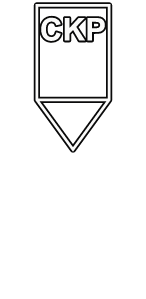
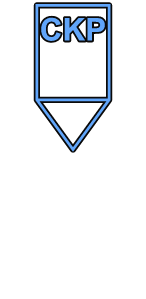
style: blue point symbols, slightly larger
Point symbols render in blue (blue-400) with the dark halo, and draw
at 0.68 scale (units stay 0.8).

Changed region(s): [[0.2192, 0.0, 0.7671, 0.5117]]

diff --git a/src/theme/tokens.ts b/src/theme/tokens.ts
@@ -15,6 +15,7 @@ export const palette = {
   'green-500': '#22c55e',
   'red-400': '#f87171',
   'red-500': '#ef4444',
+  'blue-400': '#60a5fa',
   'sky-300': '#7dd3fc',
   'sky-400': '#38bdf8',
   'yellow-300': '#fde047',
@@ -43,8 +44,8 @@ const dark = {
   self: 'sky-400',
   'map-label-bg': { color: 'neutral-950', alpha: 0.85 },
   'map-label-text': 'stone-50',
-  /** Control-measure point symbols (build-time only): white lines with a dark halo. */
-  'point-symbol': 'stone-50',
+  /** Control-measure point symbols (build-time only): blue lines with a dark halo. */
+  'point-symbol': 'blue-400',
   'point-symbol-halo': 'neutral-950',
 } as const satisfies Record<string, TokenValue>;
 

diff --git a/src/features/map/layers/styles.ts b/src/features/map/layers/styles.ts
@@ -15,7 +15,7 @@ export const MAP_LABEL_FONT = ['DIN Pro Medium', 'Arial Unicode MS Regular'];
 /** Scale for unit symbols (the generated PNGs are ~32 pt tall at 1). */
 export const MARKER_ICON_SIZE = 0.8;
 /** Scale for point (control-measure overlay) symbols: a little smaller than units. */
-export const POINT_ICON_SIZE = 0.6;
+export const POINT_ICON_SIZE = 0.68;
 /** Per-feature size from its `category` property (set by the selectors from itemCategory). */
 const ICON_SIZE_BY_CATEGORY: SymbolLayerStyle['iconSize'] = ['match', ['get', 'category'], 'point', POINT_ICON_SIZE, MARKER_ICON_SIZE];
 /** Chip padding around label text, [top, right, bottom, left] in pt. */

diff --git a/docs/superpowers/notes/2026-10-12-native-gate.md b/docs/superpowers/notes/2026-10-12-native-gate.md
@@ -136,6 +136,6 @@ Run `npx expo start --dev-client --clear`, open the app on the device.
 | 53 | NEW BUILD (expo-screen-orientation). Face a known landmark: the self icon's view cone points at it in portrait, landscape with the phone's top to the left, and landscape with the top to the right; turning the phone between them re-points the cone at once, without walking | PENDING |
 | 54 | Toolbar reads UNIT · POINT · LAYERS; UNIT opens "Add unit" (unchanged form), POINT opens "Add point" (location, Point type with symbols, Name, Notes) | PENDING |
 | 55 | Add point: picking a type changes the draft symbol at once and renames CP-1 → LZ-1 etc.; Add shows the point selected as "Point"; Edit/Save/Cancel/Hidden/Delete work | PENDING |
-| 56 | Point symbols (white with dark outline) are readable on Satellite, Hybrid, Topo and Dark; the LZ symbol matches the others; a checkpoint's tip (not its middle) sits on the spot, under the crosshair | PENDING |
+| 56 | Point symbols (blue with dark outline) are readable on Satellite, Hybrid, Topo and Dark; the LZ symbol matches the others; a checkpoint's tip (not its middle) sits on the spot, under the crosshair | PENDING |
 | 57 | Long-press after using Add point starts Add point; after Add unit starts Add unit; first launch starts Add unit | PENDING |
 | 58 | Layers: summary "N units · M points · K hidden"; searching "checkpoint" or "infantry" finds by type; row taps open Unit or Point to match. Missions list shows "N units · M points" | PENDING |
